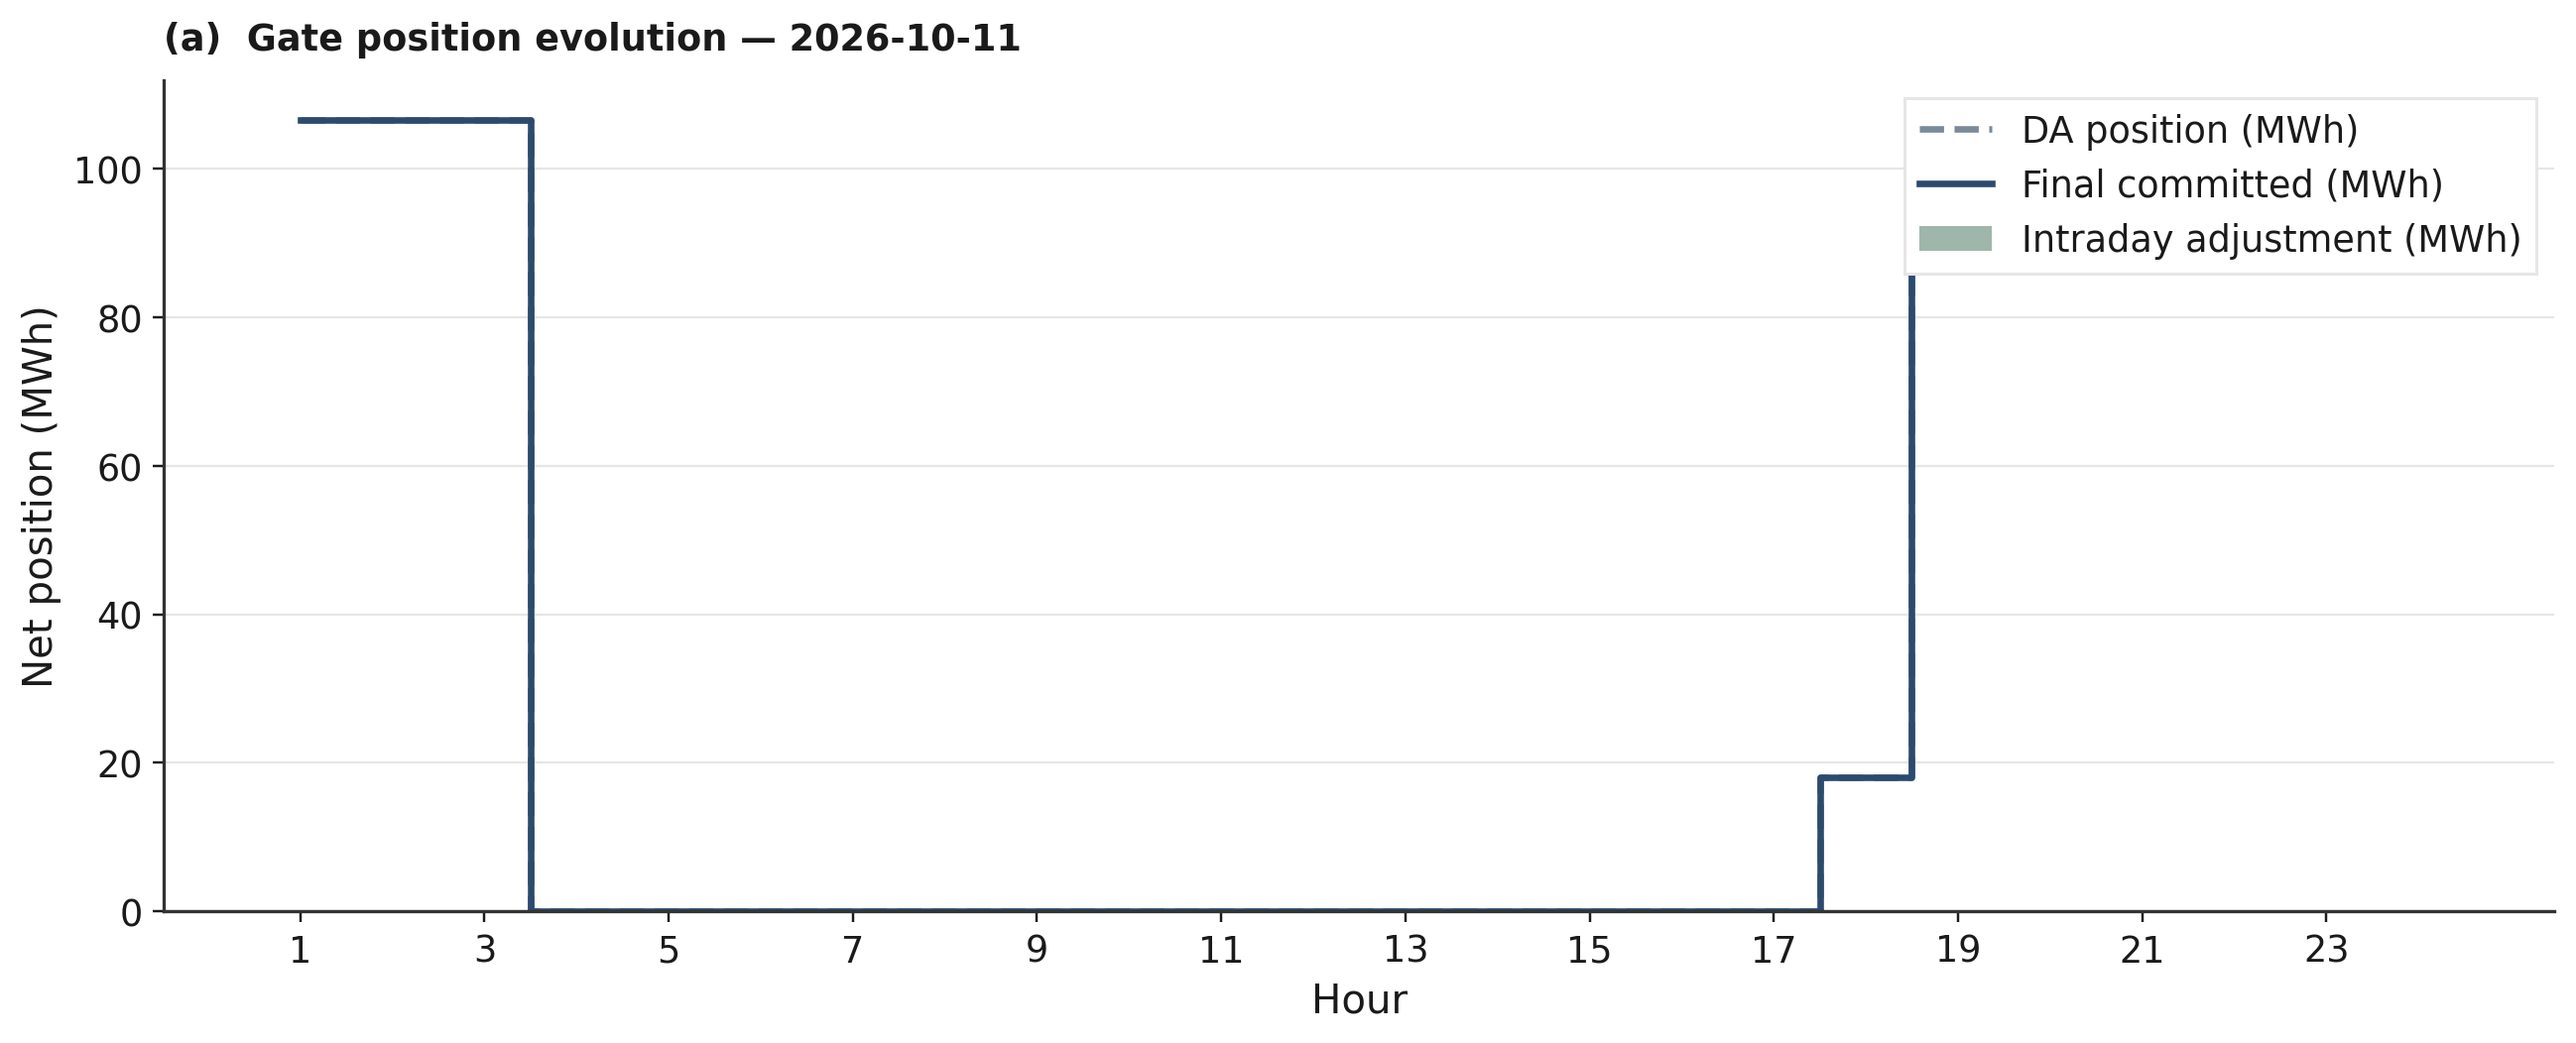
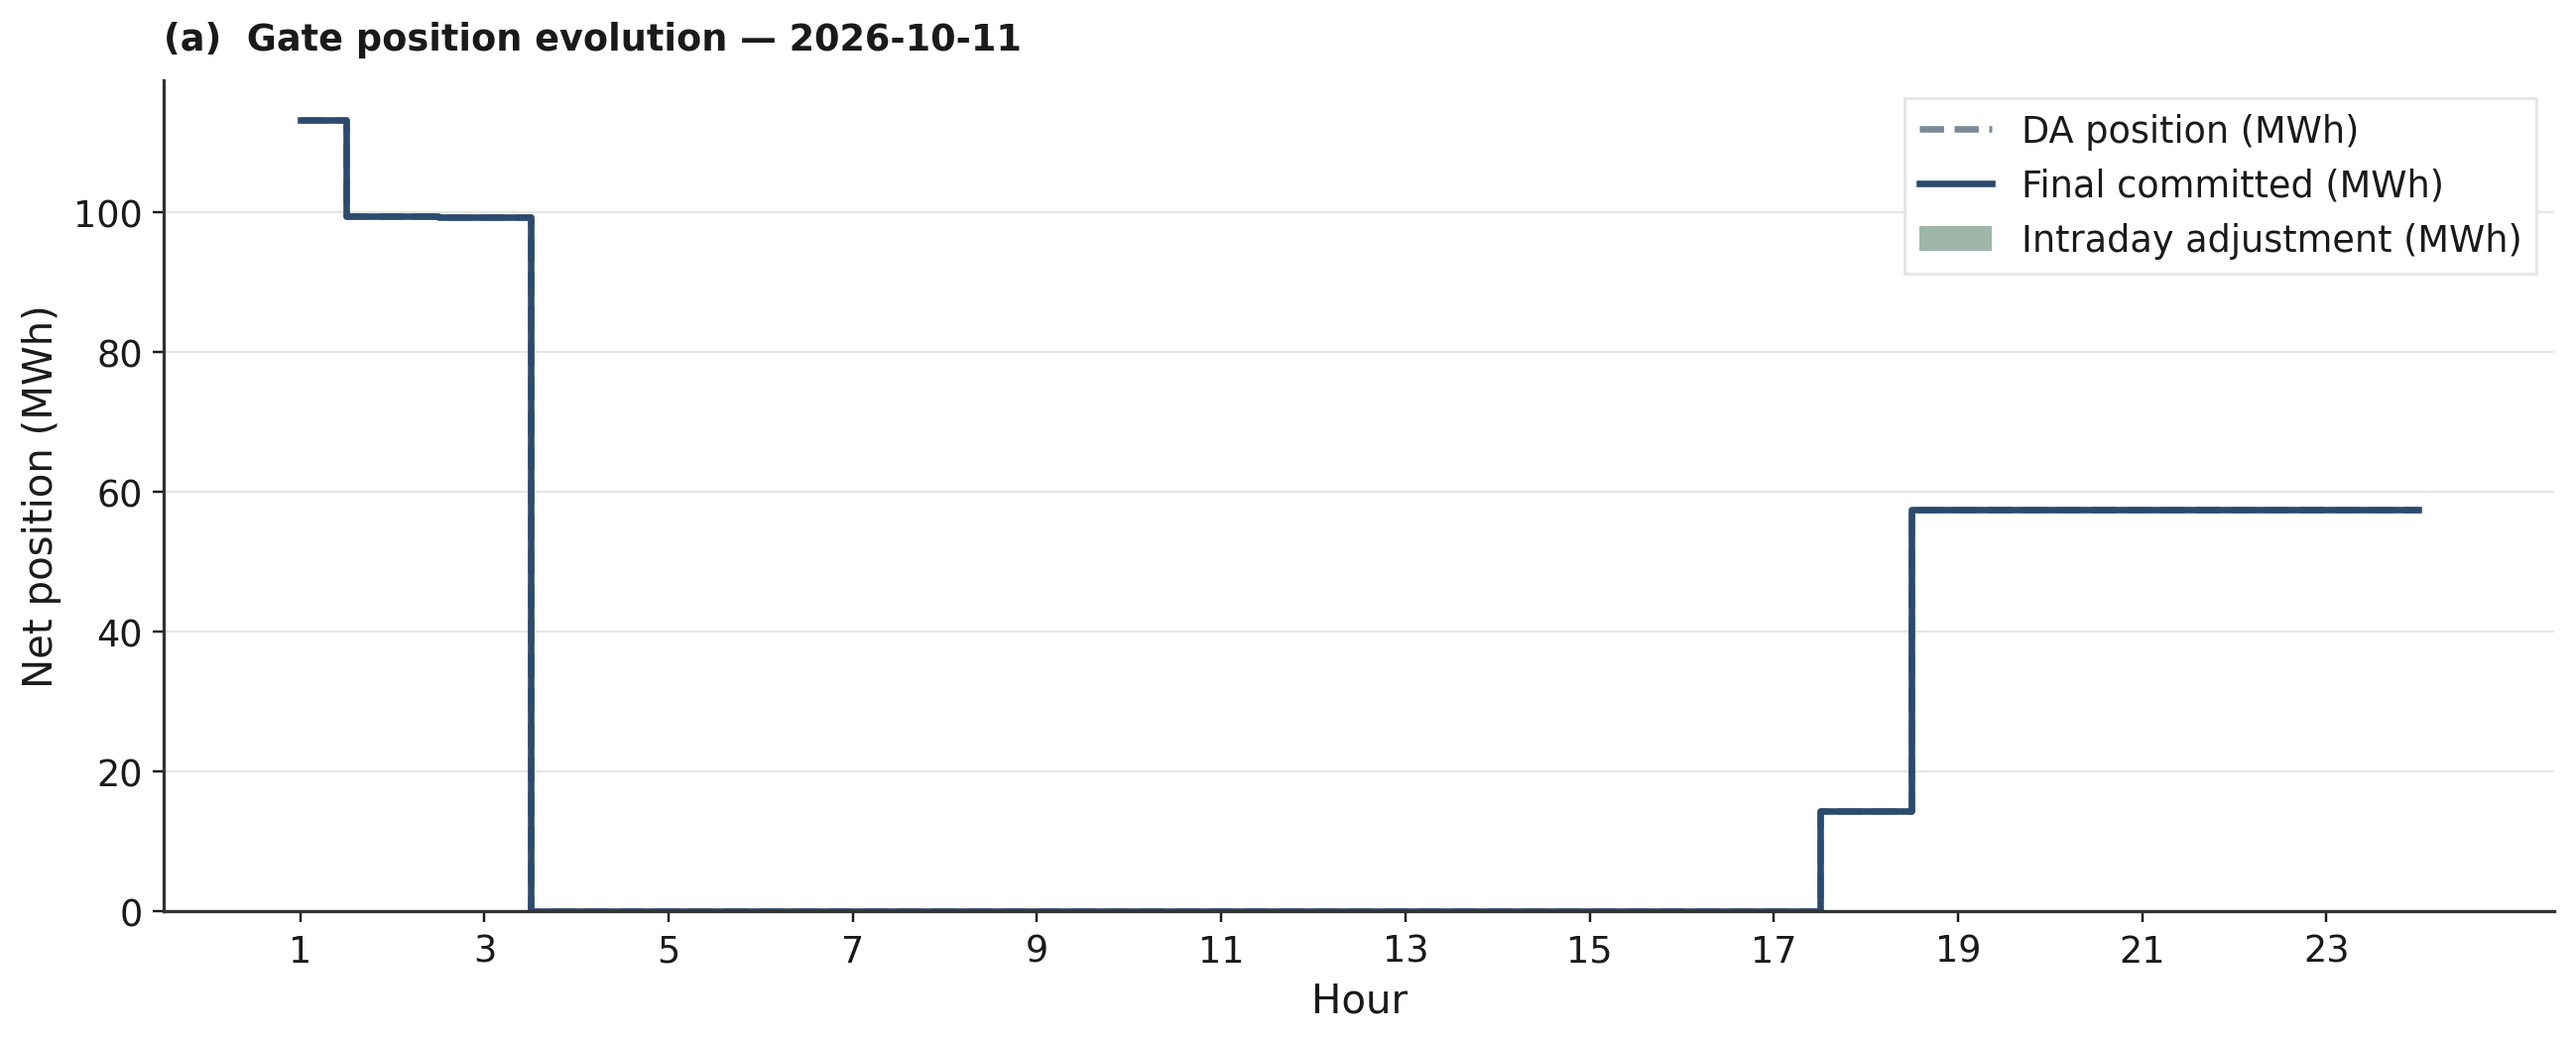
Carry time already spent in each unit's on/off state across midnight
- ComponentStore.load_chained_initial_state also returns units_turb_hours_in_state and
  units_pump_hours_in_state, counted back from the previous day's last period (24 h if unchanged
  all day)
- core_milp_builder: minimum up/down times that started before midnight are enforced in the first
  periods of the new day (standard initial conditions, Eq. 13d); deterministic and stochastic
  models; unknown time in state adds no constraint (older records, backtest)
- tests/test_time_in_state.py (10 tests); docs/mathematical_modeling.md Eq. 13d
- Verified with a real DA run for 2026-10-11 (43 s). 35 related tests pass; the full suite was not
  re-run after this change or after the PV, unit-status and two-stage solver changes.

diff --git a/tests/test_time_in_state.py b/tests/test_time_in_state.py
@@ -1,0 +1,142 @@
+"""
+test_time_in_state.py — minimum up/down times that straddle midnight: the pipeline carries how
+long each unit has already been on or off, and the model enforces the remainder in the first
+periods of the next day.
+"""
+from __future__ import annotations
+
+import dataclasses
+
+import pyomo.environ as pyo
+import pytest
+
+from common_layer.database import component_store as cs
+from common_layer.database.component_store import ComponentStore
+from common_layer.optimisation_model import build_core_model, solve_core_model
+from common_layer.optimisation_model.core_milp_builder import _initial_dwell_fixings, _hours_in_state
+from tests.conftest import make_inputs
+
+U = [1, 2, 3, 4]
+
+
+# ---------- pure helper ----------
+
+class TestInitialDwellFixings:
+    H = list(range(1, 97))        # 15-minute periods
+
+    def test_running_unit_must_finish_its_minimum_up_time(self):
+        # on for 1 period, minimum up 2 h = 8 periods -> 7 more periods forced on
+        out = _initial_dwell_fixings(U, self.H, 0.25, 2.0, 2.0, {1: 1, 2: 0, 3: 0, 4: 0},
+                                     {1: 0.25, 2: None, 3: None, 4: None})
+        assert out == [(1, h, 1) for h in range(1, 8)]
+
+    def test_stopped_unit_must_finish_its_minimum_down_time(self):
+        # off for 3 periods, minimum down 2 h = 8 periods -> 5 more periods forced off
+        out = _initial_dwell_fixings(U, self.H, 0.25, 2.0, 2.0, {1: 0, 2: 0, 3: 0, 4: 0},
+                                     {1: 0.75, 2: None, 3: None, 4: None})
+        assert out == [(1, h, 0) for h in range(1, 6)]
+
+    def test_nothing_is_forced_once_the_minimum_time_has_passed(self):
+        out = _initial_dwell_fixings(U, self.H, 0.25, 2.0, 2.0, {1: 1, 2: 0, 3: 1, 4: 0},
+                                     {1: 2.0, 2: 24.0, 3: 5.25, 4: 5.5})
+        assert out == []
+
+    def test_unknown_time_in_state_gives_no_constraint(self):
+        assert _initial_dwell_fixings(U, self.H, 0.25, 2.0, 2.0, {u: 1 for u in U}, {u: None for u in U}) == []
+
+    def test_hours_in_state_helper(self):
+        assert _hours_in_state([1.5, None], U) == {1: 1.5, 2: None, 3: None, 4: None}
+        assert _hours_in_state(None, U) == {u: None for u in U}
+
+
+# ---------- component store ----------
+
+@pytest.fixture
+def store(tmp_path, monkeypatch):
+    monkeypatch.setattr(cs, "_repo_root", lambda: str(tmp_path))
+    return ComponentStore()
+
+
+def _prev_day(store, turb, pump):
+    """24 hourly periods; turb / pump are 24-long lists of 4-unit status lists."""
+    psp = {h: {"units_on_turb": turb[h - 1], "units_on_pump": pump[h - 1]} for h in range(1, 25)}
+    store.save("2026-10-10", psp_schedule=psp,
+               bess_schedule={1: {"soc_mwh": 1.0}, 24: {"soc_mwh": 1.0}}, pv_schedule={},
+               reservoir_trajectory={1: {"upper_hm3": 2400.0, "lower_hm3": 30.0},
+                                     24: {"upper_hm3": 2450.0, "lower_hm3": 40.0}},
+               efficiency_per_hour={}, inflow_m3h={})
+
+
+def test_time_in_state_is_counted_back_from_the_last_period(store):
+    # unit 1 turbine: off for 20 h then on for the last 4 h; unit 2: on for 22 h then off for 2 h;
+    # unit 3: on all day; unit 4: off all day
+    turb = [[1 if h > 20 else 0, 0 if h > 22 else 1, 1, 0] for h in range(1, 25)]
+    pump = [[0, 0, 0, 1 if h == 24 else 0] for h in range(1, 25)]
+    _prev_day(store, turb, pump)
+    s = store.load_chained_initial_state("2026-10-11", 2.0, {"upper_reservoir_hm3": 2490.0,
+                                         "lower_reservoir_hm3": 27.0, "bess_soc_frac": 0.5})
+    assert s["units_turb_hours_in_state"] == [4.0, 2.0, 24.0, 24.0]
+    assert s["units_pump_hours_in_state"] == [24.0, 24.0, 24.0, 1.0]
+
+
+def test_missing_unit_status_gives_no_time_in_state(store):
+    store.save("2026-10-10", psp_schedule={1: {"turbine_mw": 1.0}, 2: {"turbine_mw": 1.0}},
+               bess_schedule={1: {"soc_mwh": 1.0}}, pv_schedule={},
+               reservoir_trajectory={1: {"upper_hm3": 2400.0, "lower_hm3": 30.0}},
+               efficiency_per_hour={}, inflow_m3h={})
+    s = store.load_chained_initial_state("2026-10-11", 2.0, {"upper_reservoir_hm3": 2490.0,
+                                         "lower_reservoir_hm3": 27.0, "bess_soc_frac": 0.5})
+    assert "units_turb_hours_in_state" not in s
+
+
+# ---------- MILP ----------
+
+def _psp(cfg, **kw):
+    return dataclasses.replace(cfg, plant=dataclasses.replace(
+        cfg.plant, psp=dataclasses.replace(cfg.plant.psp, **kw)))
+
+
+def _solve(cfg, inputs):
+    if cfg.solver.resolve_executable() is None:
+        pytest.skip("CPLEX not found")
+    m, _ = build_core_model(inputs, cfg)
+    solve_core_model(m, cfg, gate="DA")
+    return m
+
+
+def test_unit_that_just_started_stays_on_for_the_rest_of_its_minimum_up_time(cfg):
+    c = _psp(cfg, min_mode_hours=3, min_down_hours=1)
+    inp = make_inputs(c, price_pattern="negative")          # turbining loses money all day
+    inp["initial_state"].update({"units_on_turb": [1, 0, 0, 0],
+                                 "units_turb_hours_in_state": [1.0, None, None, None]})
+    m = _solve(c, inp)
+    assert pyo.value(m.on_turb[1, 1]) == 1 and pyo.value(m.on_turb[1, 2]) == 1    # 3 h minimum - 1 h done
+    free = make_inputs(c, price_pattern="negative")
+    free["initial_state"].update({"units_on_turb": [1, 0, 0, 0]})                # time in state unknown
+    m2 = _solve(c, free)
+    assert pyo.value(m2.on_turb[1, 1]) == 0                                       # no constraint without it
+
+
+def test_unit_that_just_stopped_stays_off_for_the_rest_of_its_minimum_down_time(cfg):
+    c = _psp(cfg, min_down_hours=3, min_mode_hours=1)
+    prices = {h: (150.0 if h <= 6 else 20.0) for h in range(1, 25)}
+    inp = make_inputs(c, da_prices_override=prices)
+    inp["da_prices"] = prices
+    inp["initial_state"].update({"units_on_turb": [0, 0, 0, 0],
+                                 "units_turb_hours_in_state": [1.0, None, None, None]})
+    m = _solve(c, inp)
+    assert pyo.value(m.on_turb[1, 1]) == 0 and pyo.value(m.on_turb[1, 2]) == 0    # 3 h minimum - 1 h done
+    free = make_inputs(c, da_prices_override=prices)
+    free["da_prices"] = prices
+    m2 = _solve(c, free)
+    assert pyo.value(m2.on_turb[1, 1]) == 1                                       # high price, nothing blocks it
+
+
+def test_stochastic_model_accepts_the_time_in_state_inputs(cfg):
+    from common_layer.optimisation_model import build_core_model_stochastic
+    inp = make_inputs(cfg)
+    inp["initial_state"].update({"units_on_turb": [1, 0, 0, 0],
+                                 "units_turb_hours_in_state": [0.5, None, None, None]})
+    scen = {0: dict(inp["da_prices"]), 1: {h: p * 1.2 for h, p in inp["da_prices"].items()}}
+    m, _ = build_core_model_stochastic(inp, _psp(cfg, min_mode_hours=2), scen, {0: 0.5, 1: 0.5})
+    assert hasattr(m, "init_dwell_turb")

diff --git a/common_layer/optimisation_model/core_milp_builder.py b/common_layer/optimisation_model/core_milp_builder.py
@@ -169,6 +169,42 @@ def _efficiency_surface(flow_grid: List[float], head_grid: List[float],
     return table
 
 
+def _hours_in_state(values, U) -> Dict[int, Optional[float]]:
+    """{unit: hours the unit has already been in its initial on/off state} (None = unknown)."""
+    out: Dict[int, Optional[float]] = {u: None for u in U}
+    if values:
+        for i, u in enumerate(U):
+            if i < len(values) and values[i] is not None:
+                out[u] = float(values[i])
+    return out
+
+
+def _initial_dwell_fixings(U, H, dt: float, min_up_h: float, min_down_h: float,
+                           init_on: Dict[int, int], hours: Dict[int, Optional[float]]):
+    """Periods at the start of the horizon where a unit's status is already decided by a
+    minimum up or down time that started before midnight (standard initial conditions of
+    the minimum up/down time constraints, Carrion and Arroyo 2006).
+
+    A unit that has been ON for a periods must stay on for max(0, L_up - a) more periods; a unit
+    that has been OFF for a periods must stay off for max(0, L_down - a) more. Returns a list of
+    (unit, period, required_status). Unknown time in state gives no constraint."""
+    L_up = max(1, round(min_up_h / dt))
+    L_dn = max(1, round(min_down_h / dt))
+    out = []
+    for u in U:
+        h_in = hours.get(u)
+        if h_in is None:
+            continue
+        age = int(h_in / dt + 1e-9)
+        if init_on.get(u, 0):
+            remaining, status = max(0, L_up - age), 1
+        else:
+            remaining, status = max(0, L_dn - age), 0
+        for h in H[:remaining]:
+            out.append((u, h, status))
+    return out
+
+
 def _init_status(values, U) -> Dict[int, int]:
     """{unit: 0/1} from an optional per-unit list of on/off flags (default: all off)."""
     if not values:
@@ -298,6 +334,8 @@ def build_core_model(
     init = inputs.get("initial_state", {})
     init_turb = _init_status(init.get("units_on_turb"), U)   # unit status at the start of the horizon
     init_pump = _init_status(init.get("units_on_pump"), U)
+    hrs_turb = _hours_in_state(init.get("units_turb_hours_in_state"), U)   # time already in that state
+    hrs_pump = _hours_in_state(init.get("units_pump_hours_in_state"), U)
 
     v_up0 = float(init.get("upper_reservoir_hm3", res.upper_initial_hm3))
     v_low0 = float(init.get("lower_reservoir_hm3", res.lower_initial_hm3))
@@ -481,6 +519,16 @@ def build_core_model(
     if psp.pump_fixed_speed:
         m.pump_fixed_flow = pyo.Constraint(m.U, m.H,
             rule=lambda mm, u, h: sum(mm.omega_pmp[u, FI[-1], hi, h] for hi in HI) == mm.on_pump[u, h])
+
+    # Minimum up/down times that started before midnight (time already spent in the initial state).
+    _fx_turb = _initial_dwell_fixings(U, H, dt, psp.min_mode_hours, psp.min_down_hours, init_turb, hrs_turb)
+    _fx_pump = _initial_dwell_fixings(U, H, dt, psp.min_mode_hours, psp.min_down_hours, init_pump, hrs_pump)
+    if _fx_turb:
+        m.init_dwell_turb = pyo.Constraint(range(len(_fx_turb)),
+            rule=lambda mm, i: mm.on_turb[_fx_turb[i][0], _fx_turb[i][1]] == _fx_turb[i][2])
+    if _fx_pump:
+        m.init_dwell_pump = pyo.Constraint(range(len(_fx_pump)),
+            rule=lambda mm, i: mm.on_pump[_fx_pump[i][0], _fx_pump[i][1]] == _fx_pump[i][2])
 
     # ── HEAD-VOLUME RELATIONSHIP ──────────────────────────────────────────────
     # Dynamic head: H_net[h] = H_MIN_OP + dH_dQ * (v_up[h]*M3_PER_HM3 - Q_ref)
@@ -751,6 +799,8 @@ def build_core_model_stochastic(
     init = inputs.get("initial_state", {})
     init_turb = _init_status(init.get("units_on_turb"), U)   # unit status at the start of the horizon
     init_pump = _init_status(init.get("units_on_pump"), U)
+    hrs_turb = _hours_in_state(init.get("units_turb_hours_in_state"), U)   # time already in that state
+    hrs_pump = _hours_in_state(init.get("units_pump_hours_in_state"), U)
 
     if abs(sum(probabilities.values()) - 1.0) > 1e-6:
         raise ValueError(
@@ -905,6 +955,15 @@ def build_core_model_stochastic(
         m.pump_fixed_flow = pyo.Constraint(m.U, m.H, m.S,
             rule=lambda mm, u, h, s: sum(mm.omega_pmp[u, FI[-1], hi, h, s] for hi in HI)
             == mm.on_pump[u, h, s])
+
+    _fx_turb = _initial_dwell_fixings(U, H, dt, psp.min_mode_hours, psp.min_down_hours, init_turb, hrs_turb)
+    _fx_pump = _initial_dwell_fixings(U, H, dt, psp.min_mode_hours, psp.min_down_hours, init_pump, hrs_pump)
+    if _fx_turb:
+        m.init_dwell_turb = pyo.Constraint(range(len(_fx_turb)), m.S,
+            rule=lambda mm, i, s: mm.on_turb[_fx_turb[i][0], _fx_turb[i][1], s] == _fx_turb[i][2])
+    if _fx_pump:
+        m.init_dwell_pump = pyo.Constraint(range(len(_fx_pump)), m.S,
+            rule=lambda mm, i, s: mm.on_pump[_fx_pump[i][0], _fx_pump[i][1], s] == _fx_pump[i][2])
 
     m.head_vol = pyo.Constraint(m.H, m.S,
         rule=lambda mm, h, s: mm.H_net[h, s] == (H_MIN_OP

diff --git a/common_layer/database/component_store.py b/common_layer/database/component_store.py
@@ -133,4 +133,24 @@ class ComponentStore:
                 units = default_state.get(key)
             if units is not None:
                 state[key] = [int(bool(x)) for x in units]
+        # How long each unit has already been in that on/off state (hours), counted back from
+        # the last period of the previous day, so minimum up/down times that straddle midnight
+        # are respected. A unit unchanged for the whole day gets 24 h (longer than any minimum).
+        if psp and last_psp:
+            periods = sorted(psp)
+            dt_h = 24.0 / len(periods)
+            for key, out_key in (("units_on_turb", "units_turb_hours_in_state"),
+                                 ("units_on_pump", "units_pump_hours_in_state")):
+                n_units = len((last_psp or {}).get(key) or [])
+                hours = []
+                for u in range(n_units):
+                    series = [int(bool((psp[p].get(key) or [0] * n_units)[u])) for p in periods]
+                    run = 1
+                    for k in range(len(series) - 2, -1, -1):
+                        if series[k] != series[-1]:
+                            break
+                        run += 1
+                    hours.append(24.0 if run == len(series) else run * dt_h)
+                if hours:
+                    state[out_key] = hours
         return state

diff --git a/docs/mathematical_modeling.md b/docs/mathematical_modeling.md
@@ -176,7 +176,15 @@ $$
 z^{su}_{u,h_1} \geq x^{trb}_{u,h_1} - x^{trb,0}_{u}, \qquad z^{su,pmp}_{u,h_1} \geq x^{pmp}_{u,h_1} - x^{pmp,0}_{u} \tag{13a}
 $$
 
-A unit that is already running therefore pays no start. The pipeline (DA, IDA1-3 and XBID gates) takes the status from the previous day's last period (`ComponentStore.load_chained_initial_state`, the same mechanism that carries the reservoir volumes and the battery state of charge), and falls back to `initial_state.units_on` in `config/plant.yaml` (turbines) with all pumps off when there is no previous record. Only the on/off status is carried, not how long each unit has already been in that state, so a minimum up or down time that straddles midnight is not enforced. The backtest still starts every day from all off, because its days are solved independently.
+A unit that is already running therefore pays no start. The pipeline (DA, IDA1-3 and XBID gates) takes the status from the previous day's last period (`ComponentStore.load_chained_initial_state`, the same mechanism that carries the reservoir volumes and the battery state of charge), and falls back to `initial_state.units_on` in `config/plant.yaml` (turbines) with all pumps off when there is no previous record. The backtest still starts every day from all off, because its days are solved independently.
+
+**Time already spent in that state.** The pipeline also carries how long each unit has already been on or off, $a_u$ (`units_turb_hours_in_state`, `units_pump_hours_in_state`, counted back from the previous day's last period; a unit unchanged all day gets 24 h). A minimum up or down time that started before midnight is then enforced in the first periods of the new day (the standard initial conditions of the minimum up/down time constraints, Carrión and Arroyo, 2006). With $L^{up}$ and $L^{dn}$ the minimum up and down times in periods and $\bar a_u = \lfloor a_u/\Delta t \rfloor$:
+
+$$
+x_{u,h} = 1 \quad \forall h \leq L^{up} - \bar a_u \ \text{ if } x^{0}_u = 1, \qquad x_{u,h} = 0 \quad \forall h \leq L^{dn} - \bar a_u \ \text{ if } x^{0}_u = 0 \tag{13d}
+$$
+
+for each mode $x \in \{x^{trb}, x^{pmp}\}$. Example: a turbine stopped at 23:30 (time in state 0.5 h, minimum down time 2 h) stays off until 01:30. If the time in state is unknown (older records, or the backtest) no extra constraint is added.
 
 **Pump start cost.** Pump starts are charged in the same way as turbine starts. Eq. 8 becomes
 
